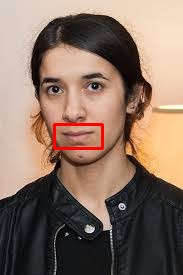
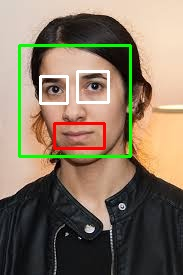
added full face detection function

Changed region(s): [[0.082, 0.1455, 0.7377, 0.5818], [0.4098, 0.2327, 0.6011, 0.3782], [0.1913, 0.2618, 0.3825, 0.4073]]

diff --git a/frontend/src/FaceDetection.jsx b/frontend/src/FaceDetection.jsx
@@ -63,6 +63,7 @@ const FaceDetection = () => {
           <option value="face">Face</option>
           <option value="eyes">Eyes</option>
           <option value="mouth">Mouth</option>
+          <option value="full_face">Face, Eyes, and Mouth</option>
           <option value="fullbody">Full Body</option>
           <option value="upperbody">Upper Body</option>
         </select>

diff --git a/app.py b/app.py
@@ -88,6 +88,40 @@ def detect_mouth(img):
 
     return img
 
+def detect_full_face(img):
+    """Detect face, eyes, and mouth, and draw rectangles around them."""
+    gray = cv2.cvtColor(img, cv2.COLOR_BGR2GRAY)
+
+    # Detect faces first
+    faces = face_cascade.detectMultiScale(gray, scaleFactor=1.2, minNeighbors=10, minSize=(50, 50))
+
+    if len(faces) == 0:
+        return img  # If no face is detected, return the original image
+    
+    for (fx, fy, fw, fh) in faces:
+        # Draw face rectangle
+        cv2.rectangle(img, (fx, fy), (fx + fw, fy + fh), (0, 255, 0), 2)
+
+        # Define face region of interest (ROI)
+        face_roi_gray = gray[fy:fy + fh, fx:fx + fw]
+        face_roi_color = img[fy:fy + fh, fx:fx + fw]
+
+        # Detect eyes within the face ROI
+        eyes = eye_cascade.detectMultiScale(face_roi_gray, scaleFactor=1.02, minNeighbors=3)
+        for (ex, ey, ew, eh) in eyes:
+            cv2.rectangle(face_roi_color, (ex, ey), (ex + ew, ey + eh), (255, 255, 255), 2)
+
+        # Detect mouth within the lower half of the face (avoiding false positives from the nose)
+        mouth_roi_gray = face_roi_gray[int(fh * 0.5):fh, :]  # Lower half of the face
+        mouth_roi_color = face_roi_color[int(fh * 0.5):fh, :]  
+
+        mouths = mouth_cascade.detectMultiScale(mouth_roi_gray, scaleFactor=1.3, minNeighbors=5)
+        for (mx, my, mw, mh) in mouths:
+            cv2.rectangle(mouth_roi_color, (mx, my), (mx + mw, my + mh), (0, 0, 255), 2)
+
+    return img
+
+
 
 def detect_fullbody(img):
     """Detect full body and draw rectangles around it."""
@@ -128,6 +162,7 @@ def upload_image():
         "face": detect_faces,
         "eyes": detect_eyes,
         "mouth": detect_mouth,
+        "full_face": detect_full_face,
         "fullbody": detect_fullbody,
         "upperbody": detect_upperbody,
     }
